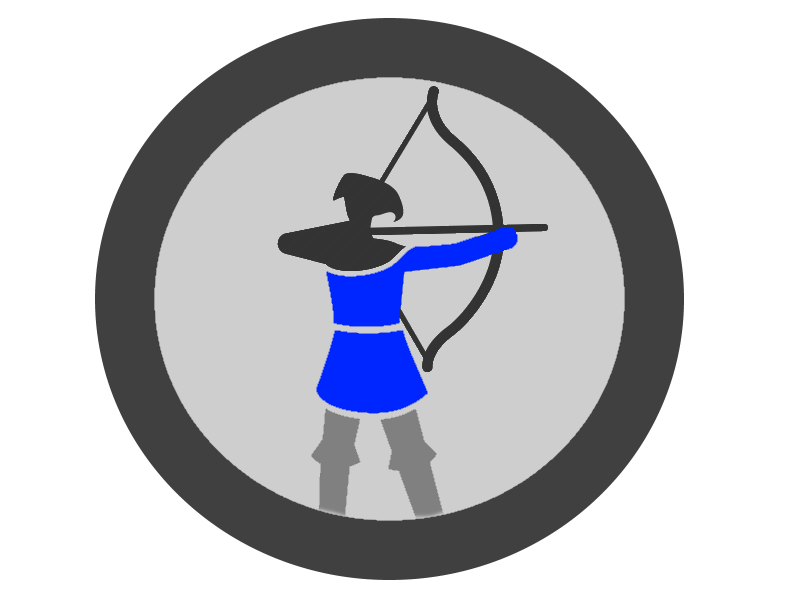
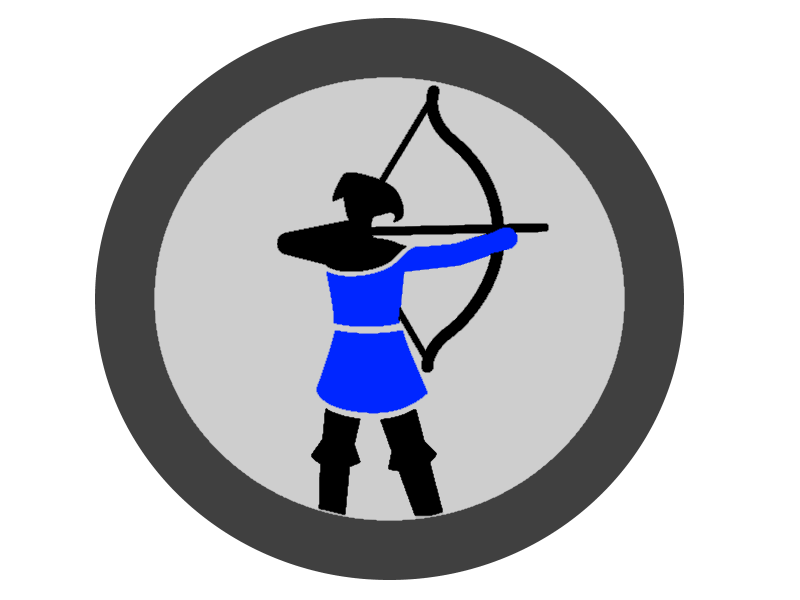
Changed UnitImages color, Added constants ViewImage deleted old Images

Changed region(s): [[0.3438, 0.12, 0.6875, 0.45], [0.375, 0.66, 0.5625, 0.87], [0.5, 0.42, 0.625, 0.63]]

diff --git a/src/main/java/constants/ViewImages.java b/src/main/java/constants/ViewImages.java
@@ -8,42 +8,85 @@ public final class ViewImages {
     /** PATH separator from the system properties.*/
     public static final String SEP = System.getProperty("file.separator");
 
-    /**PATH Image Swordsmen. */
-    public static final String LOGO_SWORDSMEN = SEP + "SwordsmenUnit.png";
 
-    /**PATH Image Spearmen. */
-    public static final String LOGO_SPEARMEN = SEP + "SpearmenUnit.png";
+    /**Player 1 Images. */
+    /**PATH Image Swordsmen player 1. */
+    public static final String P1_LOGO_SWORDSMEN = SEP + "SwordsmenUnitP1.png";
 
-    /**PATH Image Archer. */
-    public static final String LOGO_ARCHER = SEP + "ArcherUnit.png";
+    /**PATH Image Spearmen player 1. */
+    public static final String P1_LOGO_SPEARMEN = SEP + "SpearmenUnitP1.png";
 
-    /**PATH Image selected Swordsmen. */
-    public static final String SELECTED_SWORDSMEN = SEP + "SelectedSwordsmenUnit.png";
+    /**PATH Image Archer player 1. */
+    public static final String P1_LOGO_ARCHER = SEP + "ArcherUnitP1.png";
 
-    /**PATH Image selected Spearmen. */
-    public static final String SELECTED_SPEARMAN = SEP + "SelectedSpearmenUnit.png";
+    /**PATH Image selected Swordsmen player 1. */
+    public static final String P1_SELECTED_SWORDSMEN = SEP + "SelectedSwordsmenUnitP1.png";
 
-    /**PATH Image selected Archer. */
-    public static final String SELECTED_ARCHER = SEP + "SelectedArcherUnit.png";
+    /**PATH Image selected Spearmen player 1. */
+    public static final String P1_SELECTED_SPEARMEN = SEP + "SelectedSpearmenUnitP1.png";
+
+    /**PATH Image selected Archer player 1. */
+    public static final String P1_SELECTED_ARCHER = SEP + "SelectedArcherUnitP1.png";
+
+    /**PATH Image unit Swordsmen player 1. */
+    public static final String P1_SWORDSMEN = SEP + "SwordsmenP1.png";
+
+    /**PATH Image unit Spearmen player 1. */
+    public static final String P1_SPEARMAN = SEP + "SpearmenP1.png";
+
+    /**PATH Image unit Archer player 1. */
+    public static final String P1_ARCHER = SEP + "ArcherP1.png";
 
     /**PATH Image lane arrow player 1. */
-    public static final String ARROW_PLAYER1 = SEP + "ArrowPlayer1.png";
-
-    /**PATH Image lane arrow player 2. */
-    public static final String ARROW_PLAYER2 = SEP + "ArrowPlayer2.png";
+    public static final String P1_ARROW_PLAYER = SEP + "ArrowPlayer1.png";
 
     /**PATH Image selected lane arrow player 1. */
-    public static final String SELECTED_ARROW_PLAYER1 = SEP + "SelectedArrowPlayer1.png";
+    public static final String P1_SELECTED_ARROW_PLAYER = SEP + "SelectedArrowPlayer1.png";
+
+
+    /**Player 2 Images. */
+    /**PATH Image Swordsmen player 2. */
+    public static final String P2_LOGO_SWORDSMEN = SEP + "SwordsmenUnitP2.png";
+
+    /**PATH Image Spearmen player 2. */
+    public static final String P2_LOGO_SPEARMEN = SEP + "SpearmenUnitP2.png";
+
+    /**PATH Image Archer player 2. */
+    public static final String P2_LOGO_ARCHER = SEP + "ArcherUnitP2.png";
+
+    /**PATH Image selected Swordsmen player 2. */
+    public static final String P2_SELECTED_SWORDSMEN = SEP + "SelectedSwordsmenUnitP2.png";
+
+    /**PATH Image selected Spearmen player 2. */
+    public static final String P2_SELECTED_SPEARMAN = SEP + "SelectedSpearmenUnitP2.png";
+
+    /**PATH Image selected Archer player 2. */
+    public static final String P2_SELECTED_ARCHER = SEP + "SelectedArcherUnitP2.png";
+
+    /**PATH Image unit Swordsmen player 2. */
+    public static final String P2_SWORDSMEN = SEP + "SwordsmenP2.png";
+
+    /**PATH Image unit Spearmen player 2. */
+    public static final String P2_SPEARMAN = SEP + "SpearmenP2.png";
+
+    /**PATH Image unit Archer player 2. */
+    public static final String P2_ARCHER = SEP + "ArcherP2.png";
+
+    /**PATH Image lane arrow player 2. */
+    public static final String P2_ARROW_PLAYER = SEP + "ArrowPlayer2.png";
 
     /**PATH Image selected lane arrow player 2. */
-    public static final String SELECTED_ARROW_PLAYER2 = SEP + "SelectedArrowPlayer2.png";
+    public static final String P2_SELECTED_ARROW_PLAYER = SEP + "SelectedArrowPlayer2.png";
 
+
+    /**Grid Images. */
     /**PATH Image grid ground. */
     public static final String GROUND = SEP + "Ground.png";
 
     /**PATH Image grid ground for scenario 2. */
     public static final String GROUND_2 = SEP + "Ground2.png";
 
+    /**Other Scenes. */
     /**PATH Image GameModeSelection background. */
     public static final String GAME_SETTINGS = SEP + "GameSettings.png";
 
@@ -55,12 +98,6 @@ public final class ViewImages {
 
     /**PATH Image MainMenu logo. */
     public static final String LOGO = SEP + "logo.png";
-
-    /**PATH Image MainMenu spearmen. */
-    public static final String SPEARMAN = SEP + "spearman_1.png";
-
-    /**PATH Image MainMenu archer. */
-    public static final String ARCHER = SEP + "archer_2.png";
 
     private ViewImages() { }
 }

diff --git a/src/main/java/view/MainMenu.java b/src/main/java/view/MainMenu.java
@@ -62,12 +62,12 @@ public final class MainMenu extends Application {
         logo.setFitWidth(ViewResolution.screenResolutionWidth(ViewConstants.DIVISOR_4));
         logo.setFitHeight(ViewResolution.screenResolutionHeight(ViewConstants.DIVISOR_8));
 
-        final Image logoSpearmanImage  = new Image(this.getClass().getResourceAsStream(ViewImages.SPEARMAN));
+        final Image logoSpearmanImage  = new Image(this.getClass().getResourceAsStream(ViewImages.P1_SPEARMAN));
         final ImageView logoSpearman = new ImageView(logoSpearmanImage);
         logoSpearman.setFitWidth(ViewResolution.screenResolutionWidth(ViewConstants.DIVISOR_7));
         logoSpearman.setFitHeight(ViewResolution.screenResolutionHeight(ViewConstants.DIVISOR_3));
 
-        final Image logoArcherImage  = new Image(this.getClass().getResourceAsStream(ViewImages.ARCHER));
+        final Image logoArcherImage  = new Image(this.getClass().getResourceAsStream(ViewImages.P1_ARCHER));
         final ImageView logoArcher = new ImageView(logoArcherImage);
         logoArcher.setFitWidth(ViewResolution.screenResolutionWidth(ViewConstants.DIVISOR_8));
         logoArcher.setFitHeight(ViewResolution.screenResolutionHeight(ViewConstants.DIVISOR_3));
